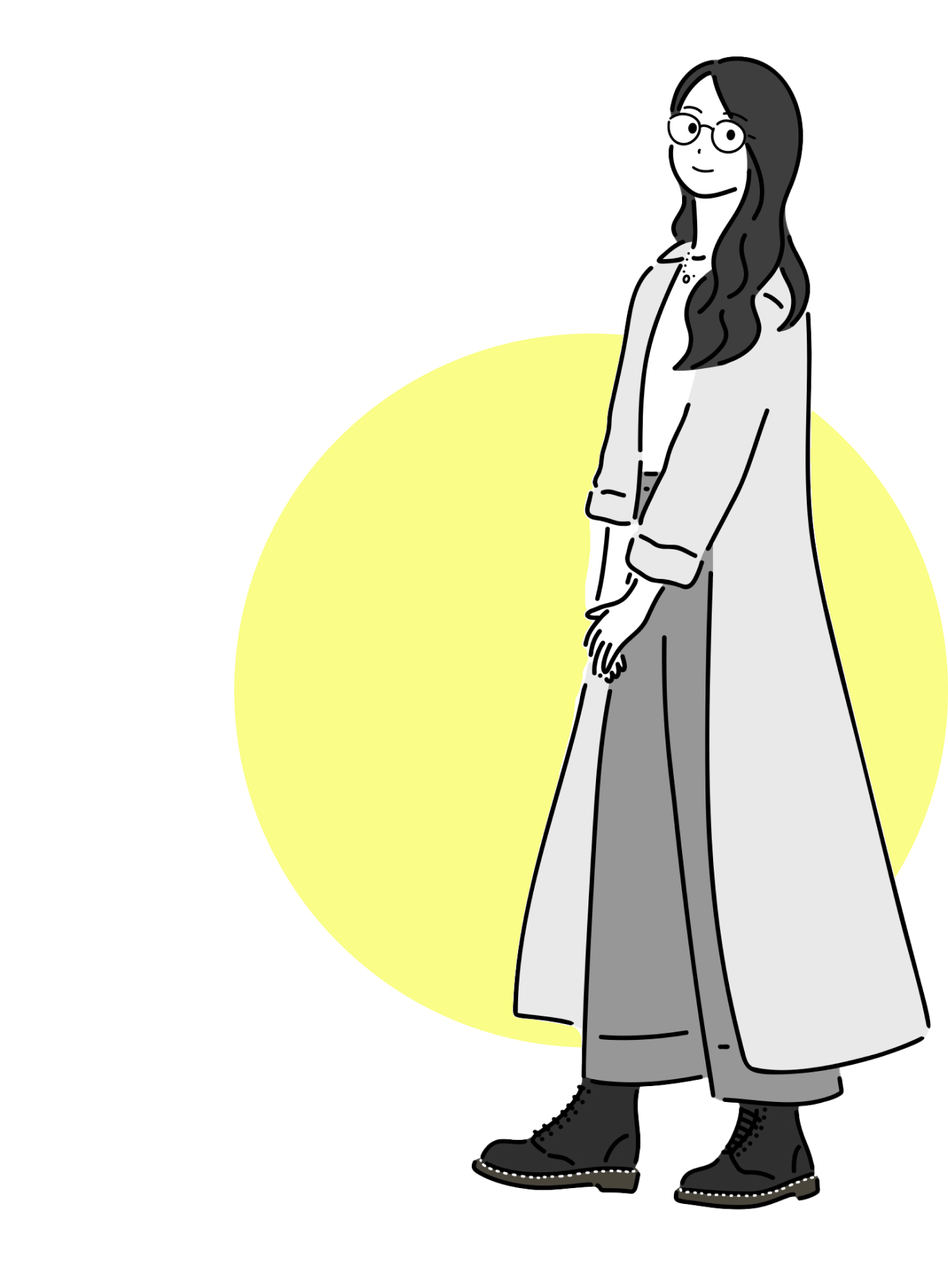
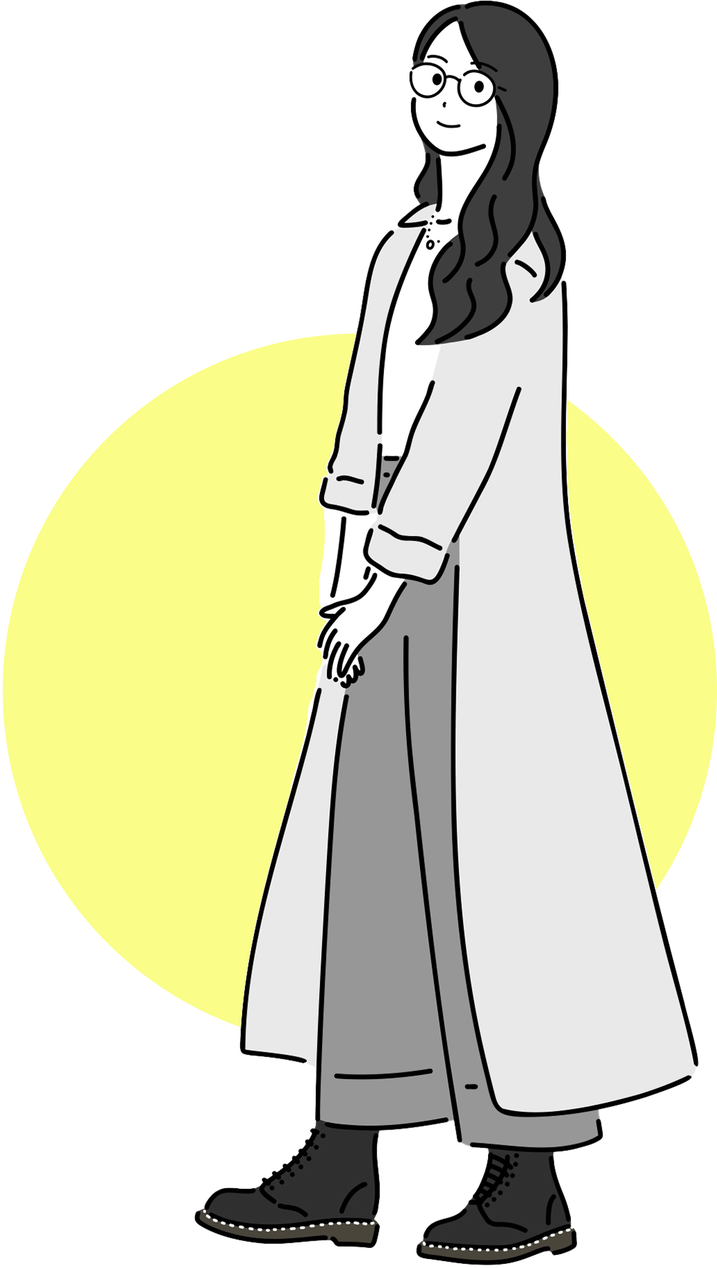
Service・メインビジュアル修正

diff --git a/css/style.min.css b/css/style.min.css
@@ -1,2 +1,2 @@
-html{font-size:16px}body{min-width:320px;width:100%;margin:0;background:#fff;font-size:1rem;font-family:"Zen Maru Gothic",serif;font-weight:300;font-style:normal;color:#333;line-height:1.5}img{max-width:100%;height:auto;vertical-align:middle}h1,h2,h3,h4,h5,h6,p,figure{margin:0;padding:0;font-size:100%}ul,ol{list-style-type:none}a{color:inherit;text-decoration:none}a:focus-visible,button:focus-visible,input:focus-visible,select:focus-visible,textarea:focus-visible{outline:2px solid #3498db;outline-offset:2px;border-radius:2px}.l-header{background:rgba(255,255,255,.7);-webkit-backdrop-filter:blur(10px);backdrop-filter:blur(10px);position:fixed;top:0;left:0;z-index:1000;height:83px}@media screen and (min-width: 577px){.l-header{height:85px}}@media screen and (min-width: 577px)and (min-width: 992px){.l-header{height:91px}}.l-main{padding-top:83px}@media screen and (min-width: 577px){.l-main{padding-top:85px}}@media screen and (min-width: 577px)and (min-width: 992px){.l-main{padding-top:91px}}.p-header{width:100%;padding:10px 16px 8px 16px;display:flex;justify-content:space-between;align-items:center;border-top:8px solid #fafd87}@media screen and (min-width: 577px){.p-header{padding:13px 40px 9px;border-width:6px}}@media screen and (min-width: 577px)and (min-width: 992px){.p-header{padding:16px 40px 12px}}.p-header__title a{display:block}.p-header__title a .custom-logo{width:116px;height:57px;-o-object-fit:contain;object-fit:contain}.p-hamburger{width:50px;height:50px;border:none;position:relative;z-index:500}@media screen and (min-width: 577px){.p-hamburger{display:none}}.p-hamburger::before,.p-hamburger::after{content:"";width:32px;height:1px;background:#333;position:absolute;left:calc(50% - 32px/2);display:block;transition:transform .2s}.p-hamburger::before{top:16px}.p-hamburger::after{top:34px}.p-hamburger>span{width:32px;height:1px;font-size:0px;background:#333;background-size:auto 1px;position:absolute;left:calc(50% - 32px/2);top:50%;transition:transdorm .2s}.p-hamburger.is-open::before{transform:rotate(45deg);top:25px}.p-hamburger.is-open::after{transform:rotate(-45deg);top:25px}.p-hamburger.is-open>span{background:none}body.is-open{overflow:hidden}.p-header__menu{height:50px;position:relative}@media screen and (min-width: 577px){.p-header__menu{height:inherit}}.p-header__menu .p-gmenu{transition:all 300ms 0s ease;width:42.6666666667vw;height:100vh;padding:83px 0 0;position:fixed;top:0;background:#fff;display:flex;flex-direction:column;align-items:center;z-index:100;overflow-y:auto;left:100%}@media screen and (min-width: 577px){.p-header__menu .p-gmenu{width:inherit;height:inherit;padding:inherit;position:static;background:inherit;flex-direction:row;transition:inherit;gap:5px}}.p-header__menu .p-gmenu__item{font-weight:200;width:100%}.p-header__menu .p-gmenu__item a{display:block;width:100%;padding-top:10px;padding-bottom:10px;text-align:center;font-size:1.25rem}@media screen and (min-width: 577px){.p-header__menu .p-gmenu__item a{padding-left:15px;padding-right:15px}}.p-header__menu.is-open .p-gmenu{left:calc(100% - 42.6666666667vw)}.p-mainVisual{position:relative;height:149.3333333333vw;background-size:cover;overflow-x:hidden}@media screen and (min-width: 577px){.p-mainVisual{height:40.1041666667vw}}@media screen and (min-width: 577px)and (min-width: 992px){.p-mainVisual{height:26.8055555556vw}}.p-mainVisual .inner{position:absolute;width:91.7333333333vw;height:122.6666666667vw;top:21.3333333333vw;left:6.6666666667vw;background:url(../img/mainVisual__img--sp.png) no-repeat center right;background-size:cover;display:flex;align-items:center}@media screen and (min-width: 577px){.p-mainVisual .inner{width:81.7708333333vw;height:33.8541666667vw;top:0;right:0;bottom:0;left:0;margin:auto;background:url(../img/mainVisual__img--pctab.png) no-repeat center right;background-size:contain}}@media screen and (min-width: 577px)and (min-width: 992px){.p-mainVisual .inner{width:55.5555555556vw;height:22.5vw}}.p-mainVisual .inner .p-mainVisual__title{font-weight:300;width:45.8666666667vw}@media screen and (min-width: 577px){.p-mainVisual .inner .p-mainVisual__title{width:100%}}.p-mainVisual .inner .p-mainVisual__title__top{font-size:1.875rem;margin-bottom:16vw}@media screen and (min-width: 577px){.p-mainVisual .inner .p-mainVisual__title__top{font-size:2rem;margin-top:inherit;margin-bottom:2.0833333333vw}}@media screen and (min-width: 577px)and (min-width: 992px){.p-mainVisual .inner .p-mainVisual__title__top{font-size:2.25rem}}.p-mainVisual .inner .p-mainVisual__title__bottom{font-size:1.375rem;width:7em}@media screen and (min-width: 577px){.p-mainVisual .inner .p-mainVisual__title__bottom{width:inherit;font-size:1.5rem}}.p-mainVisual__title__bottom span.word1 .char1,.p-mainVisual__title__bottom span.word1 .char2,.p-mainVisual__title__bottom span.word1 .char3{font-weight:200}.p-mainVisual__title__bottom span.word2 .char1{font-weight:200}.p-concept__title{font-size:1.75rem;text-align:center;margin-bottom:2.5rem}@media screen and (min-width: 577px){.p-concept__title{font-size:2.25rem;margin-bottom:3.125rem}}@media screen and (min-width: 577px)and (min-width: 577px){.p-concept__title{margin-bottom:3.75rem}}.p-concept__title span{display:inline-block;width:1.875rem;height:1.875rem;line-height:1.875rem;position:relative}@media screen and (min-width: 577px){.p-concept__title span{width:2.5rem;height:2.5rem;line-height:2.5rem}}.p-concept__title span::before{content:"";display:inline-block;position:absolute;top:0;left:0;width:100%;height:100%;background-color:#fafd87;border-radius:50%;filter:blur(6px)}.p-concept__title span::after{display:inline-block;position:absolute;top:0;left:0;width:100%;height:100%}.p-concept__title span:first-child::after{content:"心"}.p-concept__title span:last-child::after{content:"形"}.p-service__content:first-of-type{margin-bottom:3.75rem}.p-service__content__title{font-size:1.5rem;display:flex;align-items:center;justify-content:center;margin-bottom:2.5rem;gap:1rem}.p-service__content__title::before,.p-service__content__title::after{border-top:1px solid;content:"";width:2.5rem}.p-service__content__gallery{display:flex;flex-wrap:wrap;justify-content:center;gap:40px}@media screen and (min-width: 577px){.p-service__content__gallery .p-serviceCard.c-fadeIn:nth-child(2){transition-delay:.2s}}@media screen and (min-width: 992px){.p-service__content__gallery .p-serviceCard.c-fadeIn:nth-child(3n+2){transition-delay:.2s}.p-service__content__gallery .p-serviceCard.c-fadeIn:nth-child(3n+0){transition-delay:.4s}}.p-serviceCard{width:20rem}@media screen and (min-width: 577px){.p-serviceCard{width:calc(50% - 20px);max-width:22.5rem}}@media screen and (min-width: 577px)and (min-width: 992px){.p-serviceCard{width:30%}}.p-serviceCard__icon{width:7.5rem;background:#fff;border-radius:50%;margin:0 auto 3.2vw}.p-serviceCard h4{font-size:1.1875rem;text-align:center;margin-bottom:.625rem}.p-works__menu{display:flex;flex-wrap:wrap;gap:1rem;justify-content:center;margin-bottom:2.5rem}@media screen and (min-width: 577px)and (min-width: 992px){.p-works__menu{gap:2.5rem}}.p-works__menu__item{font-size:1.1875rem}@media screen and (min-width: 577px){.p-works__menu__item{font-size:1.25rem}}.p-works__menu button{padding:3px 15px}.p-works__menu button.c-title--circle::before{width:20px;height:20px;margin-left:-12px}.p-works__menu button:hover{opacity:.8}.p-works__gallery{display:grid;gap:3rem;grid-template-columns:repeat(1, 1fr);gap:40px;margin-bottom:2.5rem}@media screen and (min-width: 577px){.p-works__gallery{grid-template-columns:repeat(2, 1fr)}}@media screen and (min-width: 577px)and (min-width: 992px){.p-works__gallery{grid-template-columns:repeat(3, 1fr)}}.p-works__gallery .p-works__item{display:block}.p-works__more{display:block;margin:0 auto;position:relative}.p-works__more::after{content:"";background:url("../img/ico_arrow.png");background-size:contain;background-repeat:no-repeat;width:.875rem;height:.875rem;position:absolute;top:1.875rem;left:calc(50% - .4375rem)}.p-works button:focus-visible,.p-works a:focus-visible{outline:2px solid #3498db !important;outline-offset:2px;border-radius:2px}.p-works .hidden{display:none}.p-worksCard__text__tag{font-size:.875rem}.p-worksCard__text h3{font-size:1rem}.p-worksCard img{border-radius:4px}.p-worksCard.c-fadeIn{transition-delay:0s}@media screen and (min-width: 577px){.p-works__gallery .p-worksCard.c-fadeIn:nth-child(odd){transition-delay:0s}.p-works__gallery .p-worksCard.c-fadeIn:nth-child(even){transition-delay:.2s}}@media screen and (min-width: 992px){.p-works__gallery .p-worksCard.c-fadeIn:nth-child(3n+1){transition-delay:0s}.p-works__gallery .p-worksCard.c-fadeIn:nth-child(3n+2){transition-delay:.2s}.p-works__gallery .p-worksCard.c-fadeIn:nth-child(3n+0){transition-delay:.4s}}.p-about .c-wrap .c-inner{display:flex;flex-direction:column;justify-content:center}@media screen and (min-width: 992px){.p-about .c-wrap .c-inner{flex-direction:row;justify-content:space-around;align-items:flex-end}}@media screen and (min-width: 992px){.p-about .c-wrap .c-inner .p-about__text{flex-basis:54%}}.p-about .c-wrap .c-inner .p-about__text p:first-child{font-size:1.5rem}.p-about .c-wrap .c-inner .p-about__img{width:58.6666666667vw;margin:2.5rem auto 0}@media screen and (min-width: 577px){.p-about .c-wrap .c-inner .p-about__img{width:33.8541666667vw}}@media screen and (min-width: 577px)and (min-width: 992px){.p-about .c-wrap .c-inner .p-about__img{flex-basis:36%;margin:inherit}}.p-flow__item{display:flex;flex-direction:column;gap:.75rem 0;padding:1.25rem 2rem;border-radius:8px}@media screen and (min-width: 577px){.p-flow__item{padding:1.25rem 2.5rem}}@media screen and (min-width: 577px)and (min-width: 992px){.p-flow__item{flex-direction:row;gap:0 1.5rem;max-width:720px;margin:0 auto}}.p-flow__item h3{font-size:1.1875rem}@media screen and (min-width: 992px){.p-flow__item h3{width:12em}}.p-flow__item__text{flex:1}.p-flow__arrow{width:1.25rem;height:auto;margin:1.25rem auto}@media screen and (min-width: 992px){.p-contact>div{max-width:580px}}.p-contact>div .p-contact__text{margin-bottom:3.75rem}@media screen and (min-width: 577px){.p-contact>div .p-contact__text{margin-bottom:2.5rem}}@media screen and (min-width: 577px){.wpcf7-form{max-width:440px;margin:0 auto}}.wpcf7-form p label .required{content:"必須";font-size:.875rem;margin-left:.5rem;padding:0 .75rem;background:#fafd87;border-radius:6px}.wpcf7-form p input:focus,.wpcf7-form p textarea:focus,.wpcf7-form p select:focus,.wpcf7-form p .wpcf7-submit:focus{outline:2px solid #3498db;outline-offset:2px}.wpcf7-form p:not(:last-of-type){display:flex;flex-direction:column;margin-bottom:.75rem}.wpcf7-form p:not(:last-of-type) .wpcf7-form-control-wrap{display:block;margin-top:.25rem}.wpcf7-form p:not(:last-of-type) input,.wpcf7-form p:not(:last-of-type) textarea{width:100%;background:#fff;border:1px solid #333;border-radius:6px;padding:.4375rem 1.25rem}.wpcf7-form p:not(:last-of-type) input[name=policy]{width:auto}.wpcf7-form p:nth-last-of-type(2){margin-bottom:2rem}.wpcf7-form p:nth-last-of-type(2) a{margin-top:.25rem;margin-left:1em;text-decoration:underline;text-underline-offset:.25rem;text-decoration-thickness:1px}.wpcf7-form p:last-of-type input{display:block;margin:0 auto;background:#fafd87;border-radius:6px;padding:.5rem 2.5rem}.wpcf7 form.invalid .wpcf7-response-output,.wpcf7 form.unaccepted .wpcf7-response-output,.wpcf7 form.payment-required .wpcf7-response-output,.wpcf7 form.sent .wpcf7-response-output{padding:.5em 1em;border:none;background-color:#fafd87;border-radius:6px}.p-footer{padding:5.3333333333vw 10.6666666667vw}@media screen and (min-width: 577px){.p-footer{padding:2.6041666667vw 5.2083333333vw}}@media screen and (min-width: 577px)and (min-width: 992px){.p-footer{padding:1.3888888889vw 2.7777777778vw}}.p-footer div{display:flex;flex-direction:column;gap:2.5rem 0}@media screen and (min-width: 577px){.p-footer div{flex-direction:row;justify-content:space-between;align-items:center}}.p-footer div .p-footer__gmenu{display:flex;flex-direction:column;gap:1rem 0}@media screen and (min-width: 577px){.p-footer div .p-footer__gmenu{flex-direction:row;gap:0 1.75rem}}@media screen and (min-width: 577px)and (min-width: 992px){.p-footer div .p-footer__gmenu{gap:0 2rem}}.p-footer div .p-footer__copyright{text-align:center}.p-lowerPageHeading div{padding:16vw 5.3333333333vw}@media screen and (min-width: 577px){.p-lowerPageHeading div{padding:7.8125vw 10.4166666667vw}}@media screen and (min-width: 577px)and (min-width: 992px){.p-lowerPageHeading div{max-width:920px;padding:6.9444444444vw 0;margin:0 auto}}.p-lowerPageHeading div>*{font-size:2rem}@media screen and (min-width: 577px){.p-lowerPageHeading div>*{font-size:2.375rem}}.p-slider{margin-bottom:calc(3.75rem + 30px)}.p-slider .slick-dots li button::before{font-size:.5rem}.p-slider .slick-dots li button:hover::before,.p-slider .slick-dots li button:focus::before{opacity:1;color:#fafd87}.p-slider .slick-dots li.slick-active button:before{opacity:1;color:#fafd87}.p-worksDetail table{width:100%;table-layout:auto;border-collapse:collapse}.p-worksDetail table tr{display:block}@media screen and (min-width: 577px){.p-worksDetail table tr{display:table-row}}.p-worksDetail table tr th,.p-worksDetail table tr td{display:block}@media screen and (min-width: 577px){.p-worksDetail table tr th,.p-worksDetail table tr td{display:table-cell}}.p-worksDetail table tr th{width:100%;padding-bottom:.625rem}@media screen and (min-width: 577px){.p-worksDetail table tr th{width:auto;min-width:14em;max-width:50%;white-space:normal;word-break:break-word;padding-right:20px}}.p-worksDetail table tr td{padding-bottom:1.25rem}@media screen and (min-width: 577px){.p-worksDetail table tr td{white-space:normal;word-break:break-word}}.p-worksDetail table tr:last-child td{padding-bottom:0}.p-siteLink{margin-top:1em;display:flex;justify-content:right}.p-siteLink ::after{content:"";display:inline-block;width:36px;height:6px;margin-right:.25rem;background:url(../img/siteLinkArrow.png);background-size:contain}.p-privacy__head,.p-privacy__item{margin-bottom:2.5rem}.p-privacy__item p,.p-privacy__item ul{margin-left:1rem}.p-privacy__item__secondary{padding-left:1rem}.p-privacy__item__secondary p,.p-privacy__item__secondary ul{margin-left:1rem}.p-privacy__foot{text-align:right}.p-404__text{margin-bottom:3.75rem}.p-404 .p-siteLink{justify-content:right}.page-links{text-align:center;margin-top:2.5rem}.page-links>span{display:inline-block;padding:5px 10px;margin:0 5px;background:#f7f6f6;border-radius:3px}.c-body{overflow-x:hidden}.c-bg--white{background-color:#fff}.c-bg--gray{background-color:#f7f6f6}.c-bg--yellow{background-color:#fafd87}.c-font--nunito200{font-family:"Nunito";font-weight:200}.c-wrap{padding:24vw 5.3333333333vw}@media screen and (min-width: 577px){.c-wrap{padding:15.625vw 7.8125vw}}@media screen and (min-width: 577px)and (min-width: 992px){.c-wrap{max-width:920px;padding:8.3333333333vw 0;margin:0 auto}}.randomAnime{visibility:hidden}.c-title--frontH2{font-size:2.375rem;font-weight:200;text-align:center;margin-bottom:3.75rem}.c-title--frontH2::before{content:"";display:inline-block;width:1.5rem;height:1.5rem;border-radius:50%;background:#fafd87;margin-bottom:.3em;margin-right:-0.3em}.c-title--circle{position:relative;z-index:1}.c-title--circle::before{content:"";border-radius:50%;background:#fafd87;position:absolute;z-index:-1}.c-title--circleNumber{font-size:.9em;display:inline-block;width:1.2em;height:1.2em;text-align:center;line-height:1.2em;background:#fafd87;border-radius:50%;margin-right:.5em}.c-title--unorderCircle{font-weight:300;display:inline-block;position:relative;padding-left:1.25rem}.c-title--unorderCircle::before{content:"";width:.75rem;height:.75rem;border-radius:50%;background:#fafd87;position:absolute;top:0;transform:translateY(50%);left:0}.c-fadeIn{opacity:0;transition:1s;position:relative;top:75px}.c-fadeIn--active{opacity:1;top:0}.c-matginBottom--1em{margin-bottom:1em}.c-textSmall{font-size:.875rem}.c-listStyle li{position:relative;padding-left:1em}.c-listStyle li::before{content:"";position:absolute;left:.4em;top:.65em;width:2px;height:2px;background:#333;border-radius:50%}.c-lowerTitle{font-size:1.5rem;margin-bottom:3.75rem;margin-top:.3em;margin-left:.7em}.c-lowerTitle::before{width:2rem;height:2rem;top:-0.3em;left:-0.7em}.c-navLinks{display:flex;align-items:flex-start;justify-content:space-between;flex-direction:row;flex-wrap:nowrap;margin-top:3.75rem}.c-navLinks__prev,.c-navLinks__next{position:relative}.c-navLinks__prev a{padding-left:.9375rem}.c-navLinks__prev a::before{border-style:solid;border-width:0 1px 1px 0;content:"";display:inline-block;position:absolute;height:8px;width:8px;border-color:#333;transform:rotate(135deg);position:absolute;top:10px;left:0}.c-navLinks__next a{padding-right:.9375rem}.c-navLinks__next a::after{border-style:solid;border-width:0 1px 1px 0;content:"";display:inline-block;position:absolute;height:8px;width:8px;border-color:#333;transform:rotate(-45deg);position:absolute;top:10px;right:0}.wp-block-button.is-style-custom-button a{background:rgba(0,0,0,0);background:#fafd87;color:#333}.wp-block-button.is-style-custom-button a:hover{background:#f7f6f6;color:#333}.wp-block-button.is-style-custom-outline-button a{background:rgba(0,0,0,0);background:#fff;border:2px solid #fafd87;color:#333}.wp-block-button.is-style-custom-outline-button a:hover{background:#fff;border:2px solid #f7f6f6;color:#333}.alignright{float:right}.alignleft{float:left}.aligncenter{text-align:center}
+html{font-size:16px}body{min-width:320px;width:100%;margin:0;background:#fff;font-size:1rem;font-family:"Zen Maru Gothic",serif;font-weight:300;font-style:normal;color:#333;line-height:1.5}img{max-width:100%;height:auto;vertical-align:middle}h1,h2,h3,h4,h5,h6,p,figure{margin:0;padding:0;font-size:100%}ul,ol{list-style-type:none}a{color:inherit;text-decoration:none}a:focus-visible,button:focus-visible,input:focus-visible,select:focus-visible,textarea:focus-visible{outline:2px solid #3498db;outline-offset:2px;border-radius:2px}.l-header{background:rgba(255,255,255,.7);-webkit-backdrop-filter:blur(10px);backdrop-filter:blur(10px);position:fixed;top:0;left:0;z-index:1000;height:83px}@media screen and (min-width: 577px){.l-header{height:85px}}@media screen and (min-width: 577px)and (min-width: 992px){.l-header{height:91px}}.l-main{padding-top:83px}@media screen and (min-width: 577px){.l-main{padding-top:85px}}@media screen and (min-width: 577px)and (min-width: 992px){.l-main{padding-top:91px}}.p-header{width:100%;padding:10px 16px 8px 16px;display:flex;justify-content:space-between;align-items:center;border-top:8px solid #fafd87}@media screen and (min-width: 577px){.p-header{padding:13px 40px 9px;border-width:6px}}@media screen and (min-width: 577px)and (min-width: 992px){.p-header{padding:16px 40px 12px}}.p-header__title a{display:block}.p-header__title a .custom-logo{width:116px;height:57px;-o-object-fit:contain;object-fit:contain}.p-hamburger{width:50px;height:50px;border:none;position:relative;z-index:500}@media screen and (min-width: 577px){.p-hamburger{display:none}}.p-hamburger::before,.p-hamburger::after{content:"";width:32px;height:1px;background:#333;position:absolute;left:calc(50% - 32px/2);display:block;transition:transform .2s}.p-hamburger::before{top:16px}.p-hamburger::after{top:34px}.p-hamburger>span{width:32px;height:1px;font-size:0px;background:#333;background-size:auto 1px;position:absolute;left:calc(50% - 32px/2);top:50%;transition:transdorm .2s}.p-hamburger.is-open::before{transform:rotate(45deg);top:25px}.p-hamburger.is-open::after{transform:rotate(-45deg);top:25px}.p-hamburger.is-open>span{background:none}body.is-open{overflow:hidden}.p-header__menu{height:50px;position:relative}@media screen and (min-width: 577px){.p-header__menu{height:inherit}}.p-header__menu .p-gmenu{transition:all 300ms 0s ease;width:42.6666666667vw;height:100vh;padding:83px 0 0;position:fixed;top:0;background:#fff;display:flex;flex-direction:column;align-items:center;z-index:100;overflow-y:auto;left:100%}@media screen and (min-width: 577px){.p-header__menu .p-gmenu{width:inherit;height:inherit;padding:inherit;position:static;background:inherit;flex-direction:row;transition:inherit;gap:5px}}.p-header__menu .p-gmenu__item{font-weight:200;width:100%}.p-header__menu .p-gmenu__item a{display:block;width:100%;padding-top:10px;padding-bottom:10px;text-align:center;font-size:1.25rem}@media screen and (min-width: 577px){.p-header__menu .p-gmenu__item a{padding-left:15px;padding-right:15px}}.p-header__menu.is-open .p-gmenu{left:calc(100% - 42.6666666667vw)}.p-mainVisual{position:relative;height:149.3333333333vw;background-size:cover;overflow-x:hidden;height:calc(100svh - 83px)}@media screen and (min-width: 577px){.p-mainVisual{height:40.1041666667vw}}@media screen and (min-width: 577px)and (min-width: 992px){.p-mainVisual{height:26.8055555556vw}}.p-mainVisual .inner{position:absolute;width:91.7333333333vw;height:460px;top:calc(50% - 230px);left:6.6666666667vw;background:url(../img/mainVisual__img--sp.png) no-repeat center right;background-size:contain;display:flex;align-items:center}@media(max-width: 349px){.p-mainVisual .inner{height:390px;top:calc(50% - 195px)}}@media(min-width: 412px){.p-mainVisual .inner{height:520px;top:calc(50% - 260px)}}@media screen and (min-width: 577px){.p-mainVisual .inner{width:81.7708333333vw;height:33.8541666667vw;top:0;right:0;bottom:0;left:0;margin:auto;background:url(../img/mainVisual__img--pctab.png) no-repeat center right}}@media screen and (min-width: 577px)and (min-width: 992px){.p-mainVisual .inner{width:55.5555555556vw;height:22.5vw}}.p-mainVisual .inner .p-mainVisual__title{font-weight:300;width:9em}@media screen and (min-width: 577px){.p-mainVisual .inner .p-mainVisual__title{width:100%}}.p-mainVisual .inner .p-mainVisual__title__top{font-size:1.875rem;margin-bottom:16vw}@media screen and (min-width: 577px){.p-mainVisual .inner .p-mainVisual__title__top{font-size:2rem;margin-top:inherit;margin-bottom:2.0833333333vw}}@media screen and (min-width: 577px)and (min-width: 992px){.p-mainVisual .inner .p-mainVisual__title__top{font-size:2.25rem}}.p-mainVisual .inner .p-mainVisual__title__bottom{font-size:1.375rem;width:7em}@media screen and (min-width: 577px){.p-mainVisual .inner .p-mainVisual__title__bottom{width:inherit;font-size:1.5rem}}.p-mainVisual__title__bottom span.word1 .char1,.p-mainVisual__title__bottom span.word1 .char2,.p-mainVisual__title__bottom span.word1 .char3{font-weight:200}.p-mainVisual__title__bottom span.word2 .char1{font-weight:200}.p-concept__title{font-size:1.75rem;text-align:center;margin-bottom:2.5rem}@media screen and (min-width: 577px){.p-concept__title{font-size:2.25rem;margin-bottom:3.125rem}}@media screen and (min-width: 577px)and (min-width: 577px){.p-concept__title{margin-bottom:3.75rem}}.p-concept__title span{display:inline-block;width:1.875rem;height:1.875rem;line-height:1.875rem;position:relative}@media screen and (min-width: 577px){.p-concept__title span{width:2.5rem;height:2.5rem;line-height:2.5rem}}.p-concept__title span::before{content:"";display:inline-block;position:absolute;top:0;left:0;width:100%;height:100%;background-color:#fafd87;border-radius:50%;filter:blur(6px)}.p-concept__title span::after{display:inline-block;position:absolute;top:0;left:0;width:100%;height:100%}.p-concept__title span:first-child::after{content:"心"}.p-concept__title span:last-child::after{content:"形"}.p-service__content:first-of-type{margin-bottom:5rem}.p-service__content__title{font-size:1.5rem;display:flex;align-items:center;justify-content:center;margin-bottom:2.5rem;gap:1rem}.p-service__content__title::before,.p-service__content__title::after{border-top:1px solid;content:"";width:2.5rem}.p-service__content__gallery{display:flex;flex-wrap:wrap;justify-content:center;gap:40px}@media screen and (min-width: 577px){.p-service__content__gallery .p-serviceCard.c-fadeIn:nth-child(2){transition-delay:.2s}}@media screen and (min-width: 992px){.p-service__content__gallery .p-serviceCard.c-fadeIn:nth-child(3n+2){transition-delay:.2s}.p-service__content__gallery .p-serviceCard.c-fadeIn:nth-child(3n+0){transition-delay:.4s}}.p-serviceCard{width:20rem}@media screen and (min-width: 577px){.p-serviceCard{width:calc(50% - 20px);max-width:22.5rem}}@media screen and (min-width: 577px)and (min-width: 992px){.p-serviceCard{width:30%}}.p-serviceCard__icon{width:7.5rem;background:#fff;border-radius:50%;margin:0 auto 3.2vw}.p-serviceCard h4{font-size:1.1875rem;text-align:center;margin-bottom:.625rem}.p-works__menu{display:flex;flex-wrap:wrap;gap:1rem;justify-content:center;margin-bottom:2.5rem}@media screen and (min-width: 577px)and (min-width: 992px){.p-works__menu{gap:2.5rem}}.p-works__menu__item{font-size:1.1875rem}@media screen and (min-width: 577px){.p-works__menu__item{font-size:1.25rem}}.p-works__menu button{padding:3px 15px}.p-works__menu button.c-title--circle::before{width:20px;height:20px;margin-left:-12px}.p-works__menu button:hover{opacity:.8}.p-works__gallery{display:grid;gap:3rem;grid-template-columns:repeat(1, 1fr);gap:40px;margin-bottom:2.5rem}@media screen and (min-width: 577px){.p-works__gallery{grid-template-columns:repeat(2, 1fr)}}@media screen and (min-width: 577px)and (min-width: 992px){.p-works__gallery{grid-template-columns:repeat(3, 1fr)}}.p-works__gallery .p-works__item{display:block}.p-works__more{display:block;margin:0 auto;position:relative}.p-works__more::after{content:"";background:url("../img/ico_arrow.png");background-size:contain;background-repeat:no-repeat;width:.875rem;height:.875rem;position:absolute;top:1.875rem;left:calc(50% - .4375rem)}.p-works button:focus-visible,.p-works a:focus-visible{outline:2px solid #3498db !important;outline-offset:2px;border-radius:2px}.p-works .hidden{display:none}.p-worksCard__text__tag{font-size:.875rem}.p-worksCard__text h3{font-size:1rem}.p-worksCard img{border-radius:4px}.p-worksCard.c-fadeIn{transition-delay:0s}@media screen and (min-width: 577px){.p-works__gallery .p-worksCard.c-fadeIn:nth-child(odd){transition-delay:0s}.p-works__gallery .p-worksCard.c-fadeIn:nth-child(even){transition-delay:.2s}}@media screen and (min-width: 992px){.p-works__gallery .p-worksCard.c-fadeIn:nth-child(3n+1){transition-delay:0s}.p-works__gallery .p-worksCard.c-fadeIn:nth-child(3n+2){transition-delay:.2s}.p-works__gallery .p-worksCard.c-fadeIn:nth-child(3n+0){transition-delay:.4s}}.p-about .c-wrap .c-inner{display:flex;flex-direction:column;justify-content:center}@media screen and (min-width: 992px){.p-about .c-wrap .c-inner{flex-direction:row;justify-content:space-around;align-items:flex-end}}@media screen and (min-width: 992px){.p-about .c-wrap .c-inner .p-about__text{flex-basis:54%}}.p-about .c-wrap .c-inner .p-about__text p:first-child{font-size:1.5rem}.p-about .c-wrap .c-inner .p-about__img{width:58.6666666667vw;margin:2.5rem auto 0}@media screen and (min-width: 577px){.p-about .c-wrap .c-inner .p-about__img{width:33.8541666667vw}}@media screen and (min-width: 577px)and (min-width: 992px){.p-about .c-wrap .c-inner .p-about__img{flex-basis:36%;margin:inherit}}.p-flow__item{display:flex;flex-direction:column;gap:.75rem 0;padding:1.25rem 2rem;border-radius:8px}@media screen and (min-width: 577px){.p-flow__item{padding:1.25rem 2.5rem}}@media screen and (min-width: 577px)and (min-width: 992px){.p-flow__item{flex-direction:row;gap:0 1.5rem;max-width:720px;margin:0 auto}}.p-flow__item h3{font-size:1.1875rem}@media screen and (min-width: 992px){.p-flow__item h3{width:12em}}.p-flow__item__text{flex:1}.p-flow__arrow{width:1.25rem;height:auto;margin:1.25rem auto}@media screen and (min-width: 992px){.p-contact>div{max-width:580px}}.p-contact>div .p-contact__text{margin-bottom:3.75rem}@media screen and (min-width: 577px){.p-contact>div .p-contact__text{margin-bottom:2.5rem}}@media screen and (min-width: 577px){.wpcf7-form{max-width:440px;margin:0 auto}}.wpcf7-form p label .required{content:"必須";font-size:.875rem;margin-left:.5rem;padding:0 .75rem;background:#fafd87;border-radius:6px}.wpcf7-form p input:focus,.wpcf7-form p textarea:focus,.wpcf7-form p select:focus,.wpcf7-form p .wpcf7-submit:focus{outline:2px solid #3498db;outline-offset:2px}.wpcf7-form p:not(:last-of-type){display:flex;flex-direction:column;margin-bottom:.75rem}.wpcf7-form p:not(:last-of-type) .wpcf7-form-control-wrap{display:block;margin-top:.25rem}.wpcf7-form p:not(:last-of-type) input,.wpcf7-form p:not(:last-of-type) textarea{width:100%;background:#fff;border:1px solid #333;border-radius:6px;padding:.4375rem 1.25rem}.wpcf7-form p:not(:last-of-type) input[name=policy]{width:auto}.wpcf7-form p:nth-last-of-type(2){margin-bottom:2rem}.wpcf7-form p:nth-last-of-type(2) a{margin-top:.25rem;margin-left:1em;text-decoration:underline;text-underline-offset:.25rem;text-decoration-thickness:1px}.wpcf7-form p:last-of-type input{display:block;margin:0 auto;background:#fafd87;border-radius:6px;padding:.5rem 2.5rem}.wpcf7 form.invalid .wpcf7-response-output,.wpcf7 form.unaccepted .wpcf7-response-output,.wpcf7 form.payment-required .wpcf7-response-output,.wpcf7 form.sent .wpcf7-response-output{padding:.5em 1em;border:none;background-color:#fafd87;border-radius:6px}.p-footer{padding:5.3333333333vw 10.6666666667vw}@media screen and (min-width: 577px){.p-footer{padding:2.6041666667vw 5.2083333333vw}}@media screen and (min-width: 577px)and (min-width: 992px){.p-footer{padding:1.3888888889vw 2.7777777778vw}}.p-footer div{display:flex;flex-direction:column;gap:2.5rem 0}@media screen and (min-width: 577px){.p-footer div{flex-direction:row;justify-content:space-between;align-items:center}}.p-footer div .p-footer__gmenu{display:flex;flex-direction:column;gap:1rem 0}@media screen and (min-width: 577px){.p-footer div .p-footer__gmenu{flex-direction:row;gap:0 1.75rem}}@media screen and (min-width: 577px)and (min-width: 992px){.p-footer div .p-footer__gmenu{gap:0 2rem}}.p-footer div .p-footer__copyright{text-align:center}.p-lowerPageHeading div{padding:16vw 5.3333333333vw}@media screen and (min-width: 577px){.p-lowerPageHeading div{padding:7.8125vw 10.4166666667vw}}@media screen and (min-width: 577px)and (min-width: 992px){.p-lowerPageHeading div{max-width:920px;padding:6.9444444444vw 0;margin:0 auto}}.p-lowerPageHeading div>*{font-size:2rem}@media screen and (min-width: 577px){.p-lowerPageHeading div>*{font-size:2.375rem}}.p-slider{margin-bottom:calc(3.75rem + 30px)}.p-slider .slick-dots li button::before{font-size:.5rem}.p-slider .slick-dots li button:hover::before,.p-slider .slick-dots li button:focus::before{opacity:1;color:#fafd87}.p-slider .slick-dots li.slick-active button:before{opacity:1;color:#fafd87}.p-worksDetail table{width:100%;table-layout:auto;border-collapse:collapse}.p-worksDetail table tr{display:block}@media screen and (min-width: 577px){.p-worksDetail table tr{display:table-row}}.p-worksDetail table tr th,.p-worksDetail table tr td{display:block}@media screen and (min-width: 577px){.p-worksDetail table tr th,.p-worksDetail table tr td{display:table-cell}}.p-worksDetail table tr th{width:100%;padding-bottom:.625rem}@media screen and (min-width: 577px){.p-worksDetail table tr th{width:auto;min-width:14em;max-width:50%;white-space:normal;word-break:break-word;padding-right:20px}}.p-worksDetail table tr td{padding-bottom:1.25rem}@media screen and (min-width: 577px){.p-worksDetail table tr td{white-space:normal;word-break:break-word}}.p-worksDetail table tr:last-child td{padding-bottom:0}.p-siteLink{margin-top:1em;display:flex;justify-content:right}.p-siteLink ::after{content:"";display:inline-block;width:36px;height:6px;margin-right:.25rem;background:url(../img/siteLinkArrow.png);background-size:contain}.p-privacy__head,.p-privacy__item{margin-bottom:2.5rem}.p-privacy__item p,.p-privacy__item ul{margin-left:1rem}.p-privacy__item__secondary{padding-left:1rem}.p-privacy__item__secondary p,.p-privacy__item__secondary ul{margin-left:1rem}.p-privacy__foot{text-align:right}.p-404__text{margin-bottom:3.75rem}.p-404 .p-siteLink{justify-content:right}.page-links{text-align:center;margin-top:2.5rem}.page-links>span{display:inline-block;padding:5px 10px;margin:0 5px;background:#f7f6f6;border-radius:3px}.c-body{overflow-x:hidden}.c-bg--white{background-color:#fff}.c-bg--gray{background-color:#f7f6f6}.c-bg--yellow{background-color:#fafd87}.c-font--nunito200{font-family:"Nunito";font-weight:200}.c-wrap{padding:24vw 5.3333333333vw}@media screen and (min-width: 577px){.c-wrap{padding:15.625vw 7.8125vw}}@media screen and (min-width: 577px)and (min-width: 992px){.c-wrap{max-width:920px;padding:8.3333333333vw 0;margin:0 auto}}.randomAnime{visibility:hidden}.c-title--frontH2{font-size:2.375rem;font-weight:200;text-align:center;margin-bottom:3.75rem}.c-title--frontH2::before{content:"";display:inline-block;width:1.5rem;height:1.5rem;border-radius:50%;background:#fafd87;margin-bottom:.3em;margin-right:-0.3em}.c-title--circle{position:relative;z-index:1}.c-title--circle::before{content:"";border-radius:50%;background:#fafd87;position:absolute;z-index:-1}.c-title--circleNumber{font-size:.9em;display:inline-block;width:1.2em;height:1.2em;text-align:center;line-height:1.2em;background:#fafd87;border-radius:50%;margin-right:.5em}.c-title--unorderCircle{font-weight:300;display:inline-block;position:relative;padding-left:1.25rem}.c-title--unorderCircle::before{content:"";width:.75rem;height:.75rem;border-radius:50%;background:#fafd87;position:absolute;top:0;transform:translateY(50%);left:0}.c-fadeIn{opacity:0;transition:1s;position:relative;top:75px}.c-fadeIn--active{opacity:1;top:0}.c-matginBottom--1em{margin-bottom:1em}.c-textSmall{font-size:.875rem}.c-listStyle li{position:relative;padding-left:1em}.c-listStyle li::before{content:"";position:absolute;left:.4em;top:.65em;width:2px;height:2px;background:#333;border-radius:50%}.c-lowerTitle{font-size:1.5rem;margin-bottom:3.75rem;margin-top:.3em;margin-left:.7em}.c-lowerTitle::before{width:2rem;height:2rem;top:-0.3em;left:-0.7em}.c-navLinks{display:flex;align-items:flex-start;justify-content:space-between;flex-direction:row;flex-wrap:nowrap;margin-top:3.75rem}.c-navLinks__prev,.c-navLinks__next{position:relative}.c-navLinks__prev a{padding-left:.9375rem}.c-navLinks__prev a::before{border-style:solid;border-width:0 1px 1px 0;content:"";display:inline-block;position:absolute;height:8px;width:8px;border-color:#333;transform:rotate(135deg);position:absolute;top:10px;left:0}.c-navLinks__next a{padding-right:.9375rem}.c-navLinks__next a::after{border-style:solid;border-width:0 1px 1px 0;content:"";display:inline-block;position:absolute;height:8px;width:8px;border-color:#333;transform:rotate(-45deg);position:absolute;top:10px;right:0}.wp-block-button.is-style-custom-button a{background:rgba(0,0,0,0);background:#fafd87;color:#333}.wp-block-button.is-style-custom-button a:hover{background:#f7f6f6;color:#333}.wp-block-button.is-style-custom-outline-button a{background:rgba(0,0,0,0);background:#fff;border:2px solid #fafd87;color:#333}.wp-block-button.is-style-custom-outline-button a:hover{background:#fff;border:2px solid #f7f6f6;color:#333}.alignright{float:right}.alignleft{float:left}.aligncenter{text-align:center}
 /*# sourceMappingURL=style.min.css.map */

diff --git a/css/style.css b/css/style.css
@@ -250,6 +250,7 @@ body.is-open {
   height: 149.3333333333vw;
   background-size: cover;
   overflow-x: hidden;
+  height: calc(100svh - 83px);
 }
 @media screen and (min-width: 577px) {
   .p-mainVisual {
@@ -264,13 +265,25 @@ body.is-open {
 .p-mainVisual .inner {
   position: absolute;
   width: 91.7333333333vw;
-  height: 122.6666666667vw;
-  top: 21.3333333333vw;
+  height: 460px;
+  top: calc(50% - 230px);
   left: 6.6666666667vw;
   background: url(../img/mainVisual__img--sp.png) no-repeat center right;
-  background-size: cover;
+  background-size: contain;
   display: flex;
   align-items: center;
+}
+@media (max-width: 349px) {
+  .p-mainVisual .inner {
+    height: 390px;
+    top: calc(50% - 195px);
+  }
+}
+@media (min-width: 412px) {
+  .p-mainVisual .inner {
+    height: 520px;
+    top: calc(50% - 260px);
+  }
 }
 @media screen and (min-width: 577px) {
   .p-mainVisual .inner {
@@ -282,7 +295,6 @@ body.is-open {
     left: 0;
     margin: auto;
     background: url(../img/mainVisual__img--pctab.png) no-repeat center right;
-    background-size: contain;
   }
 }
 @media screen and (min-width: 577px) and (min-width: 992px) {
@@ -293,7 +305,7 @@ body.is-open {
 }
 .p-mainVisual .inner .p-mainVisual__title {
   font-weight: 300;
-  width: 45.8666666667vw;
+  width: 9em;
 }
 @media screen and (min-width: 577px) {
   .p-mainVisual .inner .p-mainVisual__title {
@@ -400,7 +412,7 @@ body.is-open {
 フロントページ　Serviceセクション
 =============================*/
 .p-service__content:first-of-type {
-  margin-bottom: 3.75rem;
+  margin-bottom: 5rem;
 }
 .p-service__content__title {
   font-size: 1.5rem;

diff --git a/sass/object/project/_mainVisual.scss b/sass/object/project/_mainVisual.scss
@@ -10,6 +10,7 @@
     height: fw.sp-vw( 560 );
     background-size: cover;
     overflow-x: hidden;
+    height: calc(100svh - 83px);
     @include fw.mq( "tab" ){
         height: fw.tab-vw( 308 );
         @include fw.mq( "pc" ){
@@ -20,13 +21,21 @@
     .inner{
         position: absolute;
         width: fw.sp-vw( 344 );
-        height: fw.sp-vw( 460 );
-        top: fw.sp-vw( 80 );
+        height: 460px;
+        top: calc(50% - 230px);
         left: fw.sp-vw( 25 );
         background: url(../img/mainVisual__img--sp.png) no-repeat center right;
-        background-size: cover;
+        background-size: contain;
         display: flex;
         align-items: center;
+        @media (max-width: 349px){
+          height: 390px;
+          top: calc(50% - 195px);
+        }
+        @media (min-width: 412px){
+          height: 520px;
+          top: calc(50% - 260px);
+        }   
         @include fw.mq("tab"){
             width: fw.tab-vw( 628 );
             height: fw.tab-vw( 260 );
@@ -36,7 +45,6 @@
             left: 0;
             margin: auto;
             background: url(../img/mainVisual__img--pctab.png) no-repeat center right;
-            background-size: contain;
             @include fw.mq("pc"){
                 width: fw.pc-vw( 800 );
                 height: fw.pc-vw( 324 );
@@ -45,7 +53,7 @@
 
         .p-mainVisual__title{
             font-weight: 300;
-            width: fw.sp-vw( 172 );
+            width: 9em;
             @include fw.mq("tab"){
                 width: 100%;
             }

diff --git a/sass/object/project/_service.scss b/sass/object/project/_service.scss
@@ -6,7 +6,7 @@
 .p-service{
   &__content{
     &:first-of-type{
-      margin-bottom: fw.rem( 60 );
+      margin-bottom: fw.rem( 80 );
     }
 
     &__title{
